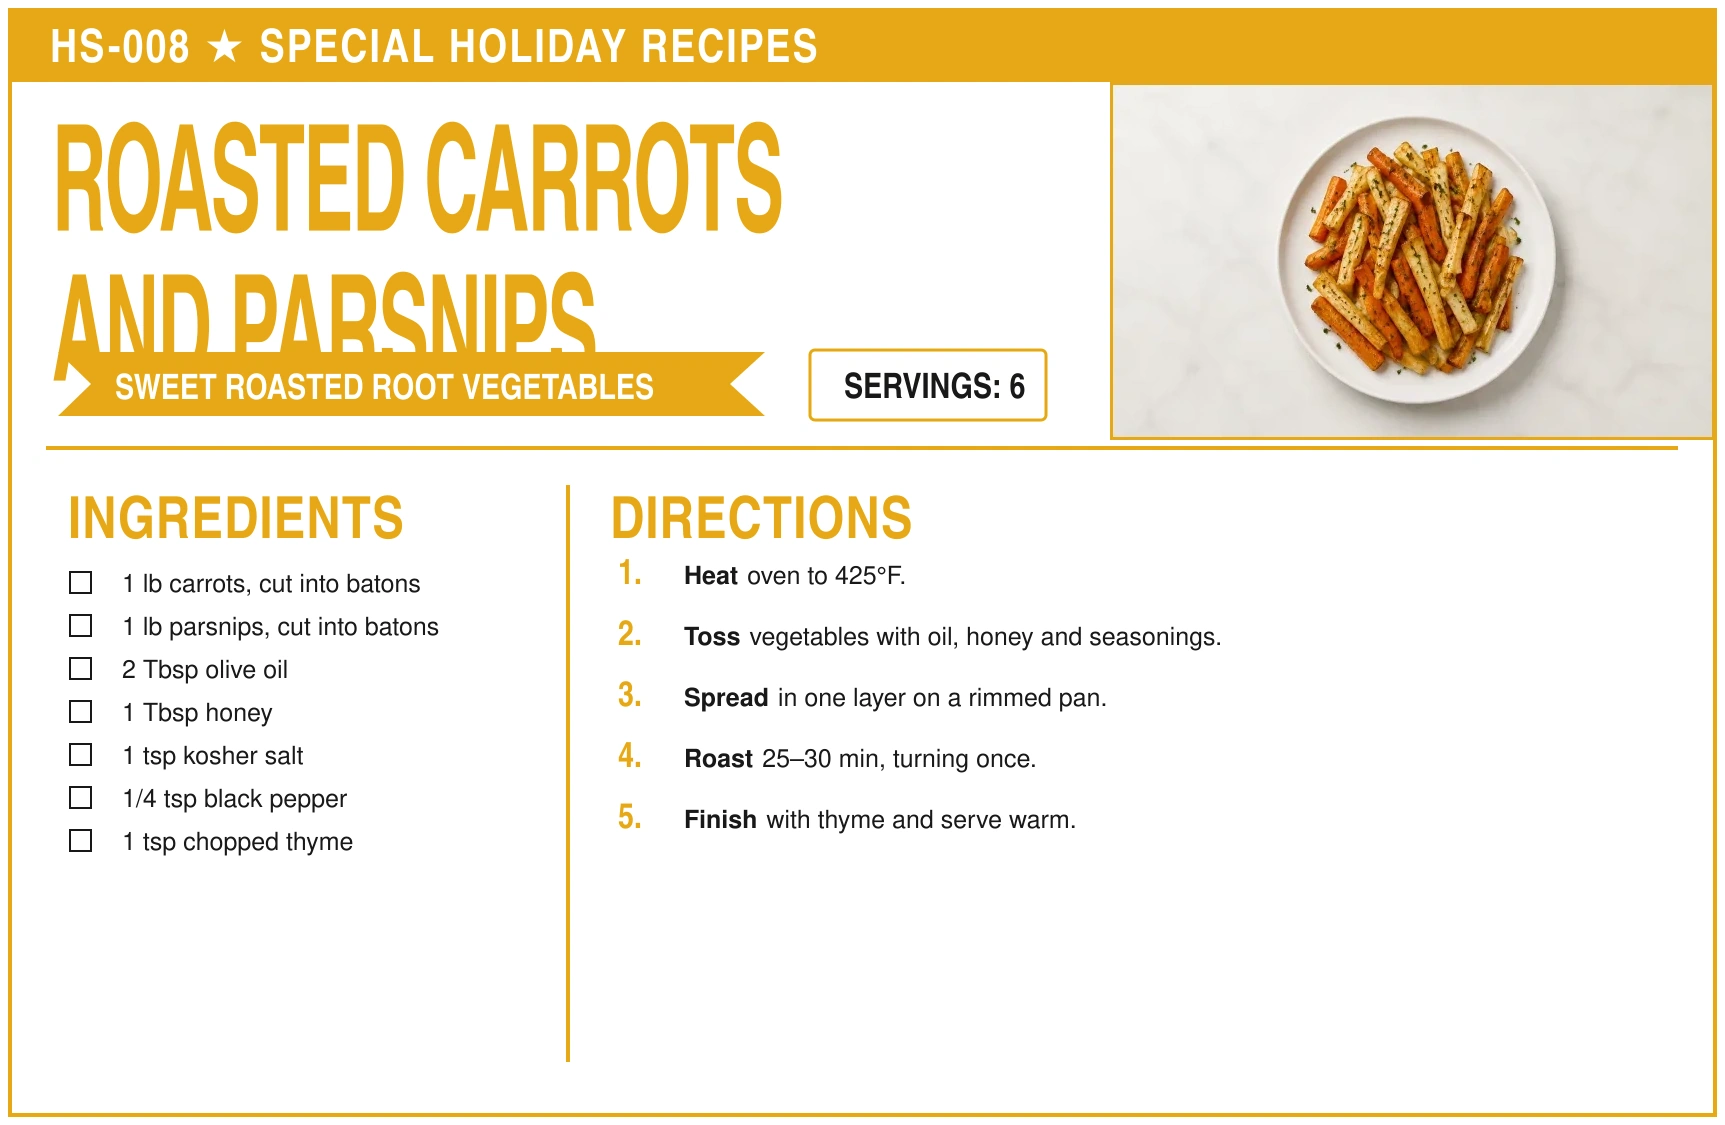
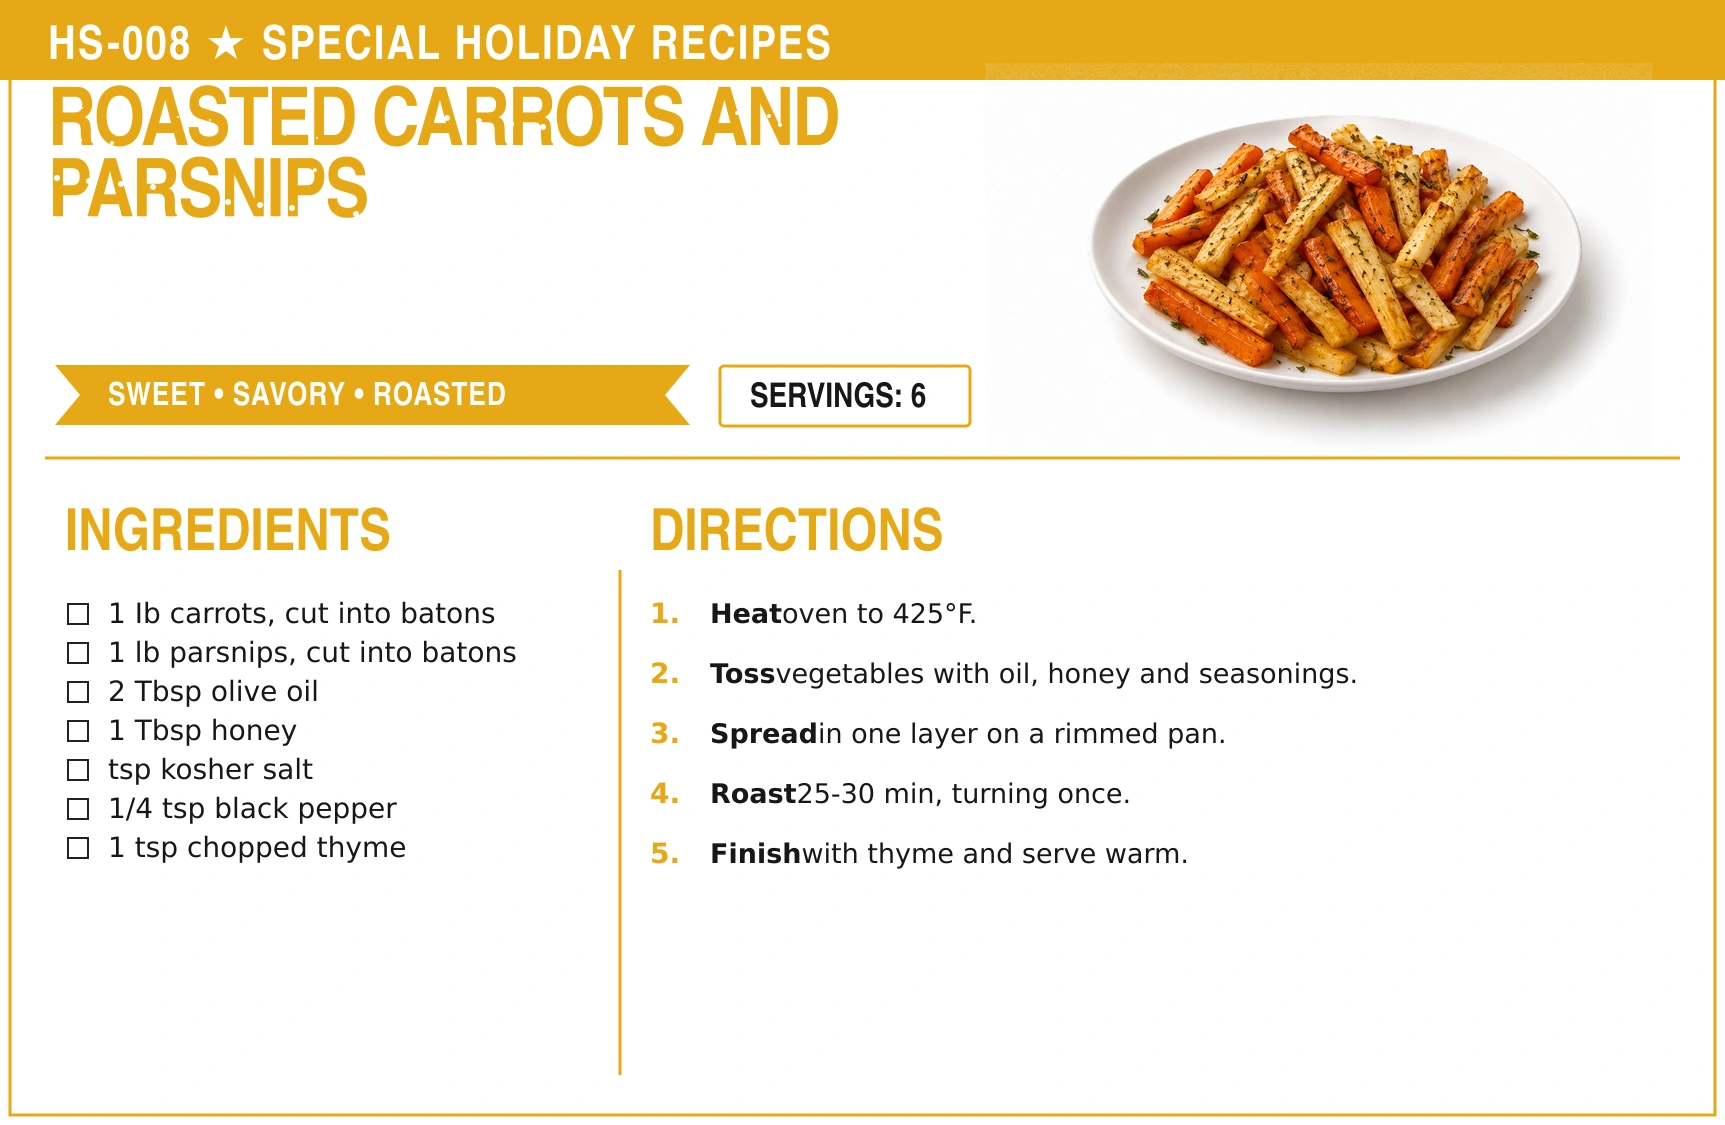
Add files via upload

Changed region(s): [[0.0, 0.0, 1.0, 0.9956], [0.6759, 0.6533, 0.7067, 0.6844]]

diff --git a/src/data/holidaySpecialRecipes.js b/src/data/holidaySpecialRecipes.js
@@ -26,7 +26,7 @@ export const HOLIDAY_SPECIAL_RECIPE_MANIFEST = Object.freeze([
       "Rest 5 min; top each steak with herb butter."
     ],
     "card": "cards/HS-001.webp",
-    "hero": "heroes/HS-001.webp"
+    "hero": "heroes/HS-001-hero.webp"
   },
   {
     "code": "HS-002",
@@ -56,7 +56,7 @@ export const HOLIDAY_SPECIAL_RECIPE_MANIFEST = Object.freeze([
       "Cover and simmer 22–25 min until rice is tender."
     ],
     "card": "cards/HS-002.webp",
-    "hero": "heroes/HS-002.webp"
+    "hero": "heroes/HS-002-hero.webp"
   },
   {
     "code": "HS-003",
@@ -83,7 +83,7 @@ export const HOLIDAY_SPECIAL_RECIPE_MANIFEST = Object.freeze([
       "Finish with lemon juice and adjust seasoning."
     ],
     "card": "cards/HS-003.webp",
-    "hero": "heroes/HS-003.webp"
+    "hero": "heroes/HS-003-hero.webp"
   },
   {
     "code": "HS-004",
@@ -111,7 +111,7 @@ export const HOLIDAY_SPECIAL_RECIPE_MANIFEST = Object.freeze([
       "Bake 20–24 min until golden and set."
     ],
     "card": "cards/HS-004.webp",
-    "hero": "heroes/HS-004.webp"
+    "hero": "heroes/HS-004-hero.webp"
   },
   {
     "code": "HS-005",
@@ -137,7 +137,7 @@ export const HOLIDAY_SPECIAL_RECIPE_MANIFEST = Object.freeze([
       "Top with remaining butter and serve hot."
     ],
     "card": "cards/HS-005.webp",
-    "hero": "heroes/HS-005.webp"
+    "hero": "heroes/HS-005-hero.webp"
   },
   {
     "code": "HS-006",
@@ -161,7 +161,7 @@ export const HOLIDAY_SPECIAL_RECIPE_MANIFEST = Object.freeze([
       "Bake 35–40 min; brush with butter and cool."
     ],
     "card": "cards/HS-006.webp",
-    "hero": "heroes/HS-006.webp"
+    "hero": "heroes/HS-006-hero.webp"
   },
   {
     "code": "HS-007",
@@ -189,7 +189,7 @@ export const HOLIDAY_SPECIAL_RECIPE_MANIFEST = Object.freeze([
       "Braise 3–3 1/2 hr; rest, slice and serve with gravy."
     ],
     "card": "cards/HS-007.webp",
-    "hero": "heroes/HS-007.webp"
+    "hero": "heroes/HS-007-hero.webp"
   },
   {
     "code": "HS-008",
@@ -215,7 +215,7 @@ export const HOLIDAY_SPECIAL_RECIPE_MANIFEST = Object.freeze([
       "Finish with thyme and serve warm."
     ],
     "card": "cards/HS-008.webp",
-    "hero": "heroes/HS-008.webp"
+    "hero": "heroes/HS-008-hero.webp"
   },
   {
     "code": "HS-009",
@@ -241,7 +241,7 @@ export const HOLIDAY_SPECIAL_RECIPE_MANIFEST = Object.freeze([
       "Bake 60–70 min until deeply golden."
     ],
     "card": "cards/HS-009.webp",
-    "hero": "heroes/HS-009.webp"
+    "hero": "heroes/HS-009-hero.webp"
   },
   {
     "code": "HS-010",
@@ -269,7 +269,7 @@ export const HOLIDAY_SPECIAL_RECIPE_MANIFEST = Object.freeze([
       "Serve when potatoes are crisp and browned."
     ],
     "card": "cards/HS-010.webp",
-    "hero": "heroes/HS-010.webp"
+    "hero": "heroes/HS-010-hero.webp"
   },
   {
     "code": "HS-011",
@@ -296,7 +296,7 @@ export const HOLIDAY_SPECIAL_RECIPE_MANIFEST = Object.freeze([
       "Chill 15 min; garnish with mint."
     ],
     "card": "cards/HS-011.webp",
-    "hero": "heroes/HS-011.webp"
+    "hero": "heroes/HS-011-hero.webp"
   },
   {
     "code": "HS-012",
@@ -324,7 +324,7 @@ export const HOLIDAY_SPECIAL_RECIPE_MANIFEST = Object.freeze([
       "Chill at least 2 hr; sprinkle with paprika."
     ],
     "card": "cards/HS-012.webp",
-    "hero": "heroes/HS-012.webp"
+    "hero": "heroes/HS-012-hero.webp"
   },
   {
     "code": "HS-013",
@@ -352,7 +352,7 @@ export const HOLIDAY_SPECIAL_RECIPE_MANIFEST = Object.freeze([
       "Bake 25 min; finish with scallions."
     ],
     "card": "cards/HS-013.webp",
-    "hero": "heroes/HS-013.webp"
+    "hero": "heroes/HS-013-hero.webp"
   },
   {
     "code": "HS-014",
@@ -380,7 +380,7 @@ export const HOLIDAY_SPECIAL_RECIPE_MANIFEST = Object.freeze([
       "Chill at least 1 hr before serving."
     ],
     "card": "cards/HS-014.webp",
-    "hero": "heroes/HS-014.webp"
+    "hero": "heroes/HS-014-hero.webp"
   },
   {
     "code": "HS-015",
@@ -407,7 +407,7 @@ export const HOLIDAY_SPECIAL_RECIPE_MANIFEST = Object.freeze([
       "Serve warm or at room temperature."
     ],
     "card": "cards/HS-015.webp",
-    "hero": "heroes/HS-015.webp"
+    "hero": "heroes/HS-015-hero.webp"
   },
   {
     "code": "HS-016",
@@ -434,7 +434,7 @@ export const HOLIDAY_SPECIAL_RECIPE_MANIFEST = Object.freeze([
       "Uncover and bake 20 min until glazed and tender."
     ],
     "card": "cards/HS-016.webp",
-    "hero": "heroes/HS-016.webp"
+    "hero": "heroes/HS-016-hero.webp"
   },
   {
     "code": "HS-017",
@@ -462,7 +462,7 @@ export const HOLIDAY_SPECIAL_RECIPE_MANIFEST = Object.freeze([
       "Bake 45–50 min until golden and set."
     ],
     "card": "cards/HS-017.webp",
-    "hero": "heroes/HS-017.webp"
+    "hero": "heroes/HS-017-hero.webp"
   },
   {
     "code": "HS-018",
@@ -488,7 +488,7 @@ export const HOLIDAY_SPECIAL_RECIPE_MANIFEST = Object.freeze([
       "Pour batter in and bake 18–22 min."
     ],
     "card": "cards/HS-018.webp",
-    "hero": "heroes/HS-018.webp"
+    "hero": "heroes/HS-018-hero.webp"
   },
   {
     "code": "HS-019",
@@ -514,7 +514,7 @@ export const HOLIDAY_SPECIAL_RECIPE_MANIFEST = Object.freeze([
       "Drizzle lightly with maple syrup if desired."
     ],
     "card": "cards/HS-019.webp",
-    "hero": "heroes/HS-019.webp"
+    "hero": "heroes/HS-019-hero.webp"
   },
   {
     "code": "HS-020",
@@ -542,7 +542,7 @@ export const HOLIDAY_SPECIAL_RECIPE_MANIFEST = Object.freeze([
       "Rest 30 min before carving."
     ],
     "card": "cards/HS-020.webp",
-    "hero": "heroes/HS-020.webp"
+    "hero": "heroes/HS-020-hero.webp"
   },
   {
     "code": "HS-021",
@@ -571,7 +571,7 @@ export const HOLIDAY_SPECIAL_RECIPE_MANIFEST = Object.freeze([
       "Braise 3–4 hr; chill, slice and reheat in sauce."
     ],
     "card": "cards/HS-021.webp",
-    "hero": "heroes/HS-021.webp"
+    "hero": "heroes/HS-021-hero.webp"
   },
   {
     "code": "HS-022",
@@ -597,7 +597,7 @@ export const HOLIDAY_SPECIAL_RECIPE_MANIFEST = Object.freeze([
       "Drain on a rack; keep warm and serve crisp."
     ],
     "card": "cards/HS-022.webp",
-    "hero": "heroes/HS-022.webp"
+    "hero": "heroes/HS-022-hero.webp"
   },
   {
     "code": "HS-023",
@@ -622,7 +622,7 @@ export const HOLIDAY_SPECIAL_RECIPE_MANIFEST = Object.freeze([
       "Finish with lemon zest and serve."
     ],
     "card": "cards/HS-023.webp",
-    "hero": "heroes/HS-023.webp"
+    "hero": "heroes/HS-023-hero.webp"
   },
   {
     "code": "HS-024",
@@ -649,7 +649,7 @@ export const HOLIDAY_SPECIAL_RECIPE_MANIFEST = Object.freeze([
       "Serve when fish flakes and reaches 145°F."
     ],
     "card": "cards/HS-024.webp",
-    "hero": "heroes/HS-024.webp"
+    "hero": "heroes/HS-024-hero.webp"
   },
   {
     "code": "HS-025",
@@ -676,7 +676,7 @@ export const HOLIDAY_SPECIAL_RECIPE_MANIFEST = Object.freeze([
       "Stir in Parmesan, remaining butter and pepper."
     ],
     "card": "cards/HS-025.webp",
-    "hero": "heroes/HS-025.webp"
+    "hero": "heroes/HS-025-hero.webp"
   },
   {
     "code": "HS-026",
@@ -701,7 +701,7 @@ export const HOLIDAY_SPECIAL_RECIPE_MANIFEST = Object.freeze([
       "Finish with lemon juice and serve."
     ],
     "card": "cards/HS-026.webp",
-    "hero": "heroes/HS-026.webp"
+    "hero": "heroes/HS-026-hero.webp"
   },
   {
     "code": "HS-027",
@@ -727,7 +727,7 @@ export const HOLIDAY_SPECIAL_RECIPE_MANIFEST = Object.freeze([
       "Rest 25–30 min before slicing."
     ],
     "card": "cards/HS-027.webp",
-    "hero": "heroes/HS-027.webp"
+    "hero": "heroes/HS-027-hero.webp"
   },
   {
     "code": "HS-028",
@@ -753,7 +753,7 @@ export const HOLIDAY_SPECIAL_RECIPE_MANIFEST = Object.freeze([
       "Add almonds, lemon juice, salt and pepper."
     ],
     "card": "cards/HS-028.webp",
-    "hero": "heroes/HS-028.webp"
+    "hero": "heroes/HS-028-hero.webp"
   },
   {
     "code": "HS-029",
@@ -782,7 +782,7 @@ export const HOLIDAY_SPECIAL_RECIPE_MANIFEST = Object.freeze([
       "Bake at 425°F until pastry is golden and beef is 125–130°F; rest."
     ],
     "card": "cards/HS-029.webp",
-    "hero": "heroes/HS-029.webp"
+    "hero": "heroes/HS-029-hero.webp"
   },
   {
     "code": "HS-030",
@@ -812,7 +812,7 @@ export const HOLIDAY_SPECIAL_RECIPE_MANIFEST = Object.freeze([
       "Bake 18–22 min until set with deeply golden edges; serve hot."
     ],
     "card": "cards/HS-030.webp",
-    "hero": "heroes/HS-030.webp"
+    "hero": "heroes/HS-030-hero.webp"
   }
 ]);
 
@@ -915,8 +915,8 @@ export const HOLIDAY_SPECIAL_RECIPE_ROWS = HOLIDAY_SPECIAL_RECIPE_MANIFEST.map((
     servings: record.servings,
     ingredients: record.ingredients.map((text) => manifestIngredient(text, record.code)),
     directions: [...record.directions],
-    image: `images/heroes/${record.code}.webp`,
-    heroImage: `images/heroes/${record.code}.webp`,
+    image: `images/heroes/${record.code}-hero.webp`,
+    heroImage: `images/heroes/${record.code}-hero.webp`,
     cardImage: `images/recipes/${record.code}.webp`,
   },
 ]);

diff --git a/src/App.jsx b/src/App.jsx
@@ -11754,7 +11754,7 @@ function HolidaysSpecialOccasionsPage({ setActivePage, setPlan, openRecipeCard }
               {dishRecipe && (
                 <div className="holidayMenuDishHero">
                   <img
-                    src={assetUrl(`images/holiday-recipe-heroes/${dish.recipeId}.webp`)}
+                    src={assetUrl(dishRecipe.heroImage || dishRecipe.image)}
                     alt={`${dish.name} plated hero`}
                     loading="lazy"
                     decoding="async"
@@ -11764,6 +11764,9 @@ function HolidaysSpecialOccasionsPage({ setActivePage, setPlan, openRecipeCard }
                 </div>
               )}
               <h3>{dish.name}</h3>
+              {dishRecipe.categoryCode === "HS" && (
+                <p className="holidayMenuDishCollection">Special Holiday Recipes</p>
+              )}
               {dishRecipe ? (
                 <button type="button" onClick={() => openRecipeCard(dish.recipeId, recipes, "Holidays and Special Occasions")}>Open Recipe Card</button>
               ) : null}
@@ -11772,7 +11775,7 @@ function HolidaysSpecialOccasionsPage({ setActivePage, setPlan, openRecipeCard }
           })}
         </div>
         <div className="holidayMenuActions">
-          <button type="button" className="primary" disabled={!availableRecipeIds.length} onClick={() => addVerifiedMenuRecipes("Meal Planner")}>Add Menu to Meal Planner</button>
+          <button type="button" className="primary" disabled={!availableRecipeIds.length} onClick={() => addVerifiedMenuRecipes("Meal Planner")}>Add Complete Menu to Meal Planner</button>
           <button type="button" className="secondary" disabled={!availableRecipeIds.length} onClick={() => addVerifiedMenuRecipes("Shopping Lists")}>Add Menu Ingredients to Grocery List</button>
         </div>
       </section>

diff --git a/src/App.css b/src/App.css
@@ -23264,9 +23264,15 @@ button.browseRecipeWideFooterAction:focus-visible,
 }
 
 .holidayMenuDish h3 {
-  margin: 11px 0 18px;
+  margin: 11px 0 8px;
   color: #352e27;
   font: 700 19px/1.3 Georgia, serif;
+}
+
+.holidayMenuDishCollection {
+  margin: 0 0 14px;
+  color: #6d7253;
+  font: 700 13px/1.3 Inter, sans-serif;
 }
 
 .holidayMenuDishHero {
